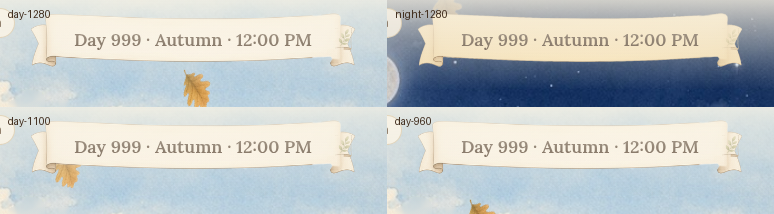
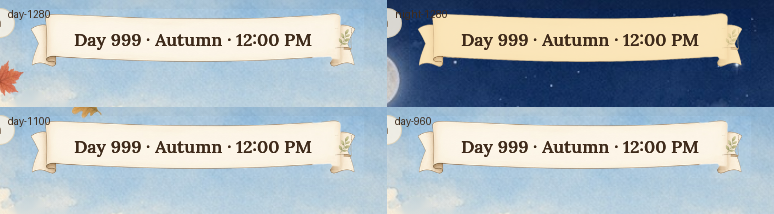
Fix clock ribbon ink wash and particle keep-out
Paint the ribbon and label after vignette/bedtime, clip vignette away from
CLOCK_KEEP_OUT, skip and nudge season particles in that band, and make the
painted-clock topbar background transparent so capturePage no longer blends
cream over canvas HUD ink.

diff --git a/renderer/scene.js b/renderer/scene.js
@@ -263,6 +263,9 @@
                 width: ART.width,
                 height: ART.height,
                 pools: ART.seasons.particlePools,
+                keepOut: typeof window !== 'undefined' && window.SmileHudLayout
+                    ? window.SmileHudLayout.CLOCK_KEEP_OUT
+                    : { left: 486, right: 794, top: 8, bottom: 64 },
                 count: 12,
                 seed: 42,
             })
@@ -731,6 +734,16 @@
             }
         }
 
+        function clockRibbonKeepOut() {
+            const H = typeof window !== 'undefined' ? window.SmileHudLayout : null;
+            return H ? H.CLOCK_KEEP_OUT : { left: 486, right: 794, top: 8, bottom: 64 };
+        }
+
+        function pointInClockKeepOut(x, y) {
+            const k = clockRibbonKeepOut();
+            return x >= k.left && x <= k.right && y >= k.top && y <= k.bottom;
+        }
+
         function drawSeasonParticles(t) {
             if (!ART.seasons || !seasonParticleEngine || !particlePool().length) return;
             const scale = ART.seasons.particleScale || 0.5;
@@ -739,6 +752,7 @@
             ctx.save();
             ctx.globalAlpha = 0.55 + 0.35 * (1 - nightW);
             for (const p of seasonParticleEngine.particles) {
+                if (pointInClockKeepOut(p.x, p.y)) continue;
                 const img = p.sprite ? particleImgs[p.sprite] : null;
                 if (ready(img)) {
                     ctx.save();
@@ -805,6 +819,32 @@
             return true;
         }
 
+        function drawGardenClockRibbonLabel() {
+            if (!ART.clock || !gardenClockLabel) return;
+            const rb = ART.clock.ribbonDisplay;
+            const CRL = typeof window !== 'undefined' ? window.SmileClockRibbonLabel : null;
+            ctx.save();
+            ctx.globalAlpha = 1;
+            ctx.globalCompositeOperation = 'source-over';
+            ctx.filter = 'none';
+            ctx.shadowBlur = 0;
+            ctx.shadowColor = 'transparent';
+            ctx.fillStyle = '#3E2A1A';
+            const measure = (text, fontSize) => {
+                if (CRL) ctx.font = CRL.baseFontSpec(fontSize);
+                return ctx.measureText(text).width;
+            };
+            const spec = CRL
+                ? CRL.fontSizeForLabel(gardenClockLabel, measure)
+                : { font: '600 16px Lora, Georgia, serif' };
+            ctx.font = spec.font;
+            ctx.textAlign = 'center';
+            ctx.textBaseline = 'middle';
+            ctx.fillText(gardenClockLabel, rb.cx, rb.cy + 1);
+            ctx.fillText(gardenClockLabel, rb.cx, rb.cy + 1);
+            ctx.restore();
+        }
+
         function drawGardenClockHud() {
             if (!ART.clock) return;
             const cfg = ART.clock;
@@ -818,23 +858,6 @@
             const ribbonDay = drawClockBitmap(clockRibbonImgs.day, ribNight ? 0 : 1, rx, ry, rw, rh);
             const ribbonNight = drawClockBitmap(clockRibbonImgs.night, ribNight ? 1 : 0, rx, ry, rw, rh);
             const ribbonReady = ribbonDay || ribbonNight;
-            if (gardenClockLabel) {
-                const CRL = typeof window !== 'undefined' ? window.SmileClockRibbonLabel : null;
-                ctx.save();
-                ctx.fillStyle = '#3E2A1A';
-                const measure = (text, fontSize) => {
-                    if (CRL) ctx.font = CRL.baseFontSpec(fontSize);
-                    return ctx.measureText(text).width;
-                };
-                const spec = CRL
-                    ? CRL.fontSizeForLabel(gardenClockLabel, measure)
-                    : { font: '600 16px Lora, Georgia, serif' };
-                ctx.font = spec.font;
-                ctx.textAlign = 'center';
-                ctx.textBaseline = 'middle';
-                ctx.fillText(gardenClockLabel, rb.cx, rb.cy + 1);
-                ctx.restore();
-            }
             if (typeof document !== 'undefined' && document.body) {
                 document.body.dataset.paintedClock = ribbonReady ? '1' : '0';
             }
@@ -1698,11 +1721,18 @@
         }
 
         function drawVignette() {
+            const k = clockRibbonKeepOut();
+            ctx.save();
+            ctx.beginPath();
+            ctx.rect(0, 0, ART.width, ART.height);
+            ctx.rect(k.left, k.top, k.right - k.left, k.bottom - k.top);
+            ctx.clip('evenodd');
             const g = ctx.createRadialGradient(640, 380, 300, 640, 380, 820);
             g.addColorStop(0, 'rgba(60, 40, 20, 0)');
             g.addColorStop(1, lighting === 'night' ? 'rgba(5, 10, 30, 0.45)' : 'rgba(70, 50, 25, 0.22)');
             ctx.fillStyle = g;
             ctx.fillRect(0, 0, ART.width, ART.height);
+            ctx.restore();
         }
 
         function draw(t) {
@@ -1720,10 +1750,11 @@
             drawParticles(t);
             drawHarvestAnims();
             drawBasketIcon(t);
-            drawGardenClockHud();
             drawBedtimeGlowLayer();
             drawVignette();
+            drawGardenClockHud();
             drawLogoHud();
+            drawGardenClockRibbonLabel();
         }
 
         function probeClockRibbon() {

diff --git a/game/season-particles.js b/game/season-particles.js
@@ -30,11 +30,22 @@ function pickSprite(pool, rnd) {
     return pool.length ? pool[Math.floor(rnd() * pool.length)] : null;
 }
 
-function newParticle({ pool, rnd, width, height, anywhere }) {
+function inKeepOut(pt, keepOut) {
+    if (!keepOut) return false;
+    return pt.x >= keepOut.left && pt.x <= keepOut.right
+        && pt.y >= keepOut.top && pt.y <= keepOut.bottom;
+}
+
+function newParticle({ pool, rnd, width, height, anywhere, keepOut }) {
+    let x = rnd() * width;
+    let y = anywhere ? rnd() * height * 0.72 : -20 - rnd() * 40;
+    if (keepOut && inKeepOut({ x, y }, keepOut)) {
+        y = keepOut.bottom + 12 + rnd() * 48;
+    }
     return {
         sprite: pickSprite(pool, rnd),
-        x: rnd() * width,
-        y: anywhere ? rnd() * height * 0.72 : -20 - rnd() * 40,
+        x,
+        y,
         vx: (rnd() - 0.5) * 22,
         vy: 12 + rnd() * 22,
         rot: rnd() * TAU,
@@ -51,9 +62,9 @@ function syncSpritesToPool(particles, pool, rnd) {
     }
 }
 
-function reseedAll(particles, { pool, rnd, width, height }) {
+function reseedAll(particles, { pool, rnd, width, height, keepOut }) {
     for (let i = 0; i < particles.length; i++) {
-        particles[i] = newParticle({ pool, rnd, width, height, anywhere: true });
+        particles[i] = newParticle({ pool, rnd, width, height, anywhere: true, keepOut });
     }
 }
 
@@ -64,6 +75,7 @@ function createEngine(opts) {
     const width = opts.width;
     const height = opts.height;
     const pools = opts.pools;
+    const keepOut = opts.keepOut || null;
     const count = opts.count || 12;
     const rnd = mulberry(opts.seed != null ? opts.seed : 42);
     let season = 'spring';
@@ -78,7 +90,7 @@ function createEngine(opts) {
         const s = next || 'spring';
         if (s === season) return false;
         season = s;
-        reseedAll(particles, { pool: particlePool(season, nightWeight, pools), rnd, width, height });
+        reseedAll(particles, { pool: particlePool(season, nightWeight, pools), rnd, width, height, keepOut });
         return true;
     }
 
@@ -96,7 +108,7 @@ function createEngine(opts) {
     function init() {
         particles.length = 0;
         for (let i = 0; i < count; i++) {
-            particles.push(newParticle({ pool: currentPool(), rnd, width, height, anywhere: true }));
+            particles.push(newParticle({ pool: currentPool(), rnd, width, height, anywhere: true, keepOut }));
         }
     }
 
@@ -109,8 +121,11 @@ function createEngine(opts) {
             p.x += (p.vx + wind) * dt;
             p.y += p.vy * dt;
             p.rot += p.vr * dt;
+            if (keepOut && inKeepOut(p, keepOut)) {
+                p.y = keepOut.bottom + 10 + rnd() * 36;
+            }
             if (p.y > height * 0.78 || p.x < -40 || p.x > width + 40) {
-                particles[i] = newParticle({ pool, rnd, width, height, anywhere: false });
+                particles[i] = newParticle({ pool, rnd, width, height, anywhere: false, keepOut });
             }
         }
     }
@@ -132,7 +147,7 @@ function createEngine(opts) {
         setNightWeight,
         update,
         applyLighting,
-        reseedAll: () => reseedAll(particles, { pool: currentPool(), rnd, width, height }),
+        reseedAll: () => reseedAll(particles, { pool: currentPool(), rnd, width, height, keepOut }),
     };
 }
 

diff --git a/renderer/styles.css b/renderer/styles.css
@@ -100,6 +100,8 @@ body[data-painted-clock="1"] .topbar {
     height: auto;
     padding: 8px 18px;
     pointer-events: none;
+    /* Clock ribbon + label are painted on the garden canvas; no HTML wash over the HUD band. */
+    background: linear-gradient(to bottom, transparent, transparent);
 }
 body[data-painted-clock="1"] .topbar .chip,
 body[data-painted-clock="1"] .topbar .btn { pointer-events: auto; }
